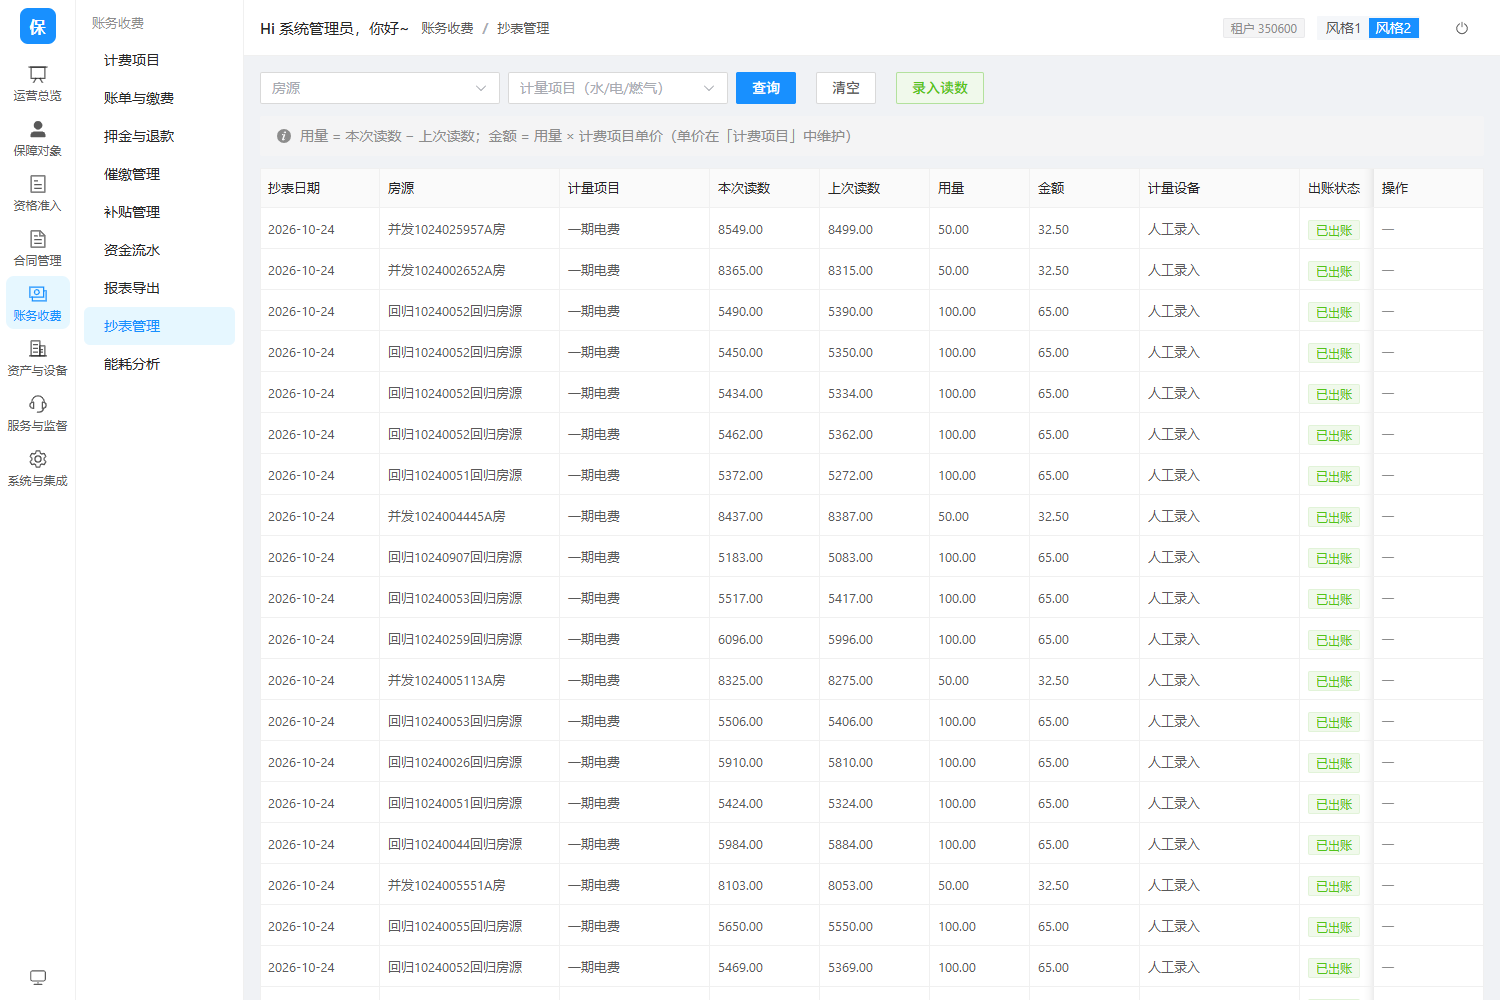
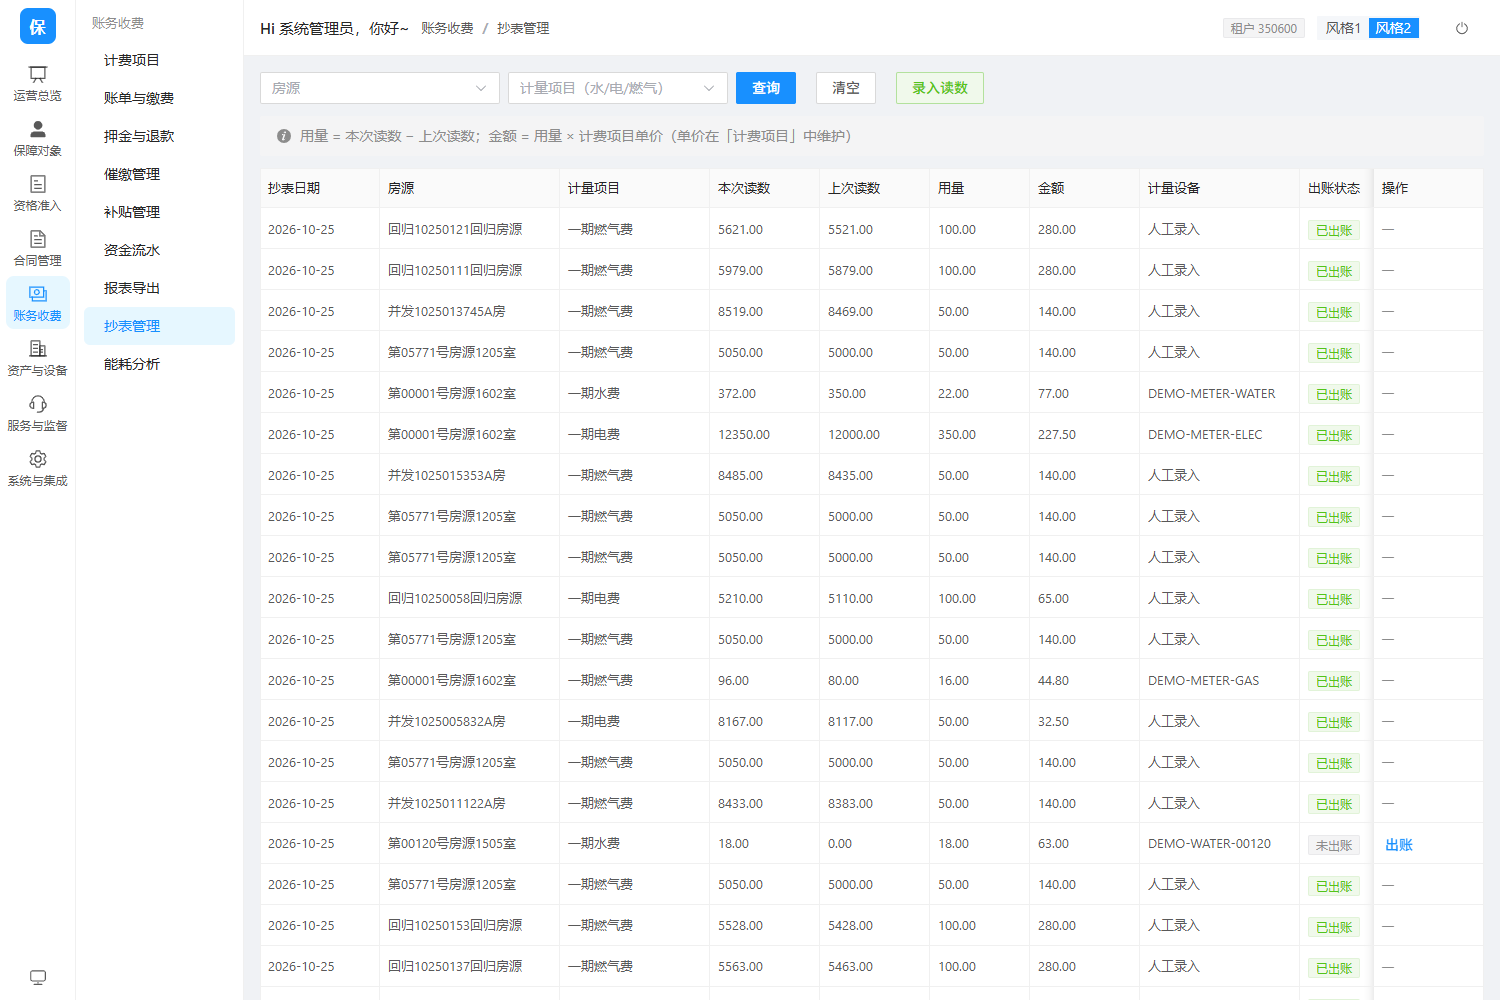
feat(metering): seed utility readings; per-item energy breakdown and fix prev-reading key

diff --git a/_验证/energy_page_check.js b/_验证/energy_page_check.js
@@ -1,0 +1,57 @@
+/**
+ * 抄表管理页检查：打开页面，输出控制台错误与表格行数。
+ */
+const puppeteer = require('puppeteer-core')
+const path = require('path')
+const fs = require('fs')
+
+const EDGE = 'C:\\Program Files (x86)\\Microsoft\\Edge\\Application\\msedge.exe'
+const BASE = 'http://192.168.31.11:8080'
+const shots = path.join(__dirname, '_shots')
+fs.mkdirSync(shots, { recursive: true })
+
+;(async () => {
+  const browser = await puppeteer.launch({ executablePath: EDGE, headless: 'new',
+    args: ['--no-sandbox'] })
+  const page = await browser.newPage()
+  await page.setViewport({ width: 1500, height: 1000 })
+  await page.setCacheEnabled(false)
+  const errors = []
+  page.on('console', (m) => { if (m.type() === 'error') errors.push(m.text().slice(0, 160)) })
+  page.on('response', (r) => {
+    if (r.status() >= 400) errors.push(r.status() + ' ' + r.url().slice(-70))
+  })
+
+  await page.goto(BASE + '/#/login', { waitUntil: 'networkidle2' })
+  await page.evaluate(() => {
+    const el = document.querySelectorAll('input')
+    const set = (i, v) => {
+      el[i].focus(); el[i].value = v
+      el[i].dispatchEvent(new Event('input', { bubbles: true }))
+      el[i].dispatchEvent(new Event('change', { bubbles: true }))
+      el[i].blur()
+    }
+    set(0, '350600'); set(1, 'admin'); set(2, 'admin123')
+  })
+  await new Promise(r => setTimeout(r, 300))
+  await page.evaluate(() => {
+    const b = Array.from(document.querySelectorAll('button'))
+      .find((x) => /登\s*录/.test(x.innerText || ''))
+    b && b.click()
+  })
+  await page.waitForFunction(() => !!document.querySelector('.rail, .el-menu, .aside'),
+    { timeout: 20000 })
+  await page.goto(BASE + '/#/energy', { waitUntil: 'networkidle2' })
+  await new Promise(r => setTimeout(r, 6000))
+
+  const info = await page.evaluate(() => ({
+    rows: document.querySelectorAll('.el-table__body tr').length,
+    empty: (document.querySelector('.el-table__empty-text') || {}).innerText || '',
+    text: document.body.innerText.replace(/\n+/g, ' | ').slice(0, 200)
+  }))
+  await page.screenshot({ path: path.join(shots, 'energy.png') })
+  console.log('行数:', info.rows, ' 空提示:', info.empty)
+  console.log('文本:', info.text)
+  console.log('错误:', errors.slice(0, 4).join(' || ') || '无')
+  await browser.close()
+})()

diff --git a/frontend/src/views/EnergyAnalysis.vue b/frontend/src/views/EnergyAnalysis.vue
@@ -29,6 +29,14 @@
       </el-col>
     </el-row>
 
+    <div style="font-weight:600;margin-bottom:6px">按计量项目（水 / 电 / 燃气）</div>
+    <el-table :data="itemRows" size="small" border style="margin-bottom:14px">
+      <el-table-column prop="feeItemName" label="计量项目" width="190" />
+      <el-table-column prop="readings" label="读数次数" width="110" />
+      <el-table-column prop="usage" label="用量" width="150" />
+      <el-table-column prop="amount" label="金额" width="150" />
+    </el-table>
+
     <el-row :gutter="12">
       <el-col :span="12">
         <div style="font-weight:600;margin-bottom:6px">月度趋势</div>
@@ -70,6 +78,7 @@ const months = ref(6)
 const monthRows = ref([])
 const buildings = ref([])
 const top = ref([])
+const itemRows = ref([])
 
 const totalUsage = computed(() =>
   monthRows.value.reduce((s, m) => s + Number(m.usage || 0), 0).toFixed(2))
@@ -87,6 +96,7 @@ async function load() {
     }))
     buildings.value = (r && r.byBuilding) || []
     top.value = (r && r.topHouses) || []
+    itemRows.value = (r && r.byFeeItem) || []
   } catch (e) {
     ElMessage.error(e?.response?.data?.message || '加载能耗数据失败')
   }

diff --git a/backend/src/main/java/com/yundao/bp/fin/service/impl/MeterReadingServiceImpl.java b/backend/src/main/java/com/yundao/bp/fin/service/impl/MeterReadingServiceImpl.java
@@ -195,23 +195,31 @@ public class MeterReadingServiceImpl implements MeterReadingService {
 
         // 单价（按收费项）
         java.util.Map<Long, java.math.BigDecimal> priceOf = new java.util.HashMap<>();
+        java.util.Map<Long, String> itemName = new java.util.HashMap<>();
         if (anaFeeItemMapper != null) {
             for (com.yundao.bp.fin.entity.FinFeeItem it : anaFeeItemMapper.selectList(
                     new com.baomidou.mybatisplus.core.conditions.query.LambdaQueryWrapper<>())) {
                 priceOf.put(it.getId(), it.getUnitPrice());
+                itemName.put(it.getId(), it.getItemName());
             }
         }
 
-        java.util.Map<Long, com.yundao.bp.fin.entity.FinMeterReading> prev = new java.util.HashMap<>();
+        // 关键：同一房源有多个计量项目（水/电/燃气），必须按「房源+项目」分别计算上期读数
+        java.util.Map<String, com.yundao.bp.fin.entity.FinMeterReading> prev =
+                new java.util.HashMap<>();
         java.util.Map<String, java.math.BigDecimal> monthUsage = new java.util.TreeMap<>();
         java.util.Map<String, java.math.BigDecimal> monthAmount = new java.util.TreeMap<>();
         java.util.Map<String, Integer> monthReadings = new java.util.HashMap<>();
         java.util.Map<Long, java.math.BigDecimal> houseUsage = new java.util.HashMap<>();
+        java.util.Map<Long, java.math.BigDecimal> itemUsage = new java.util.HashMap<>();
+        java.util.Map<Long, java.math.BigDecimal> itemAmount = new java.util.HashMap<>();
+        java.util.Map<Long, Integer> itemReadings = new java.util.HashMap<>();
 
         for (com.yundao.bp.fin.entity.FinMeterReading r : list) {
             String month = r.getReadDate() == null ? "" : r.getReadDate().toString().substring(0, 7);
             monthReadings.merge(month, 1, Integer::sum);
-            com.yundao.bp.fin.entity.FinMeterReading last = prev.get(r.getHouseId());
+            String key = r.getHouseId() + "#" + r.getFeeItemId();
+            com.yundao.bp.fin.entity.FinMeterReading last = prev.get(key);
             if (last != null && last.getReading() != null && r.getReading() != null) {
                 java.math.BigDecimal used = r.getReading().subtract(last.getReading());
                 if (used.signum() > 0) {
@@ -222,9 +230,15 @@ public class MeterReadingServiceImpl implements MeterReadingService {
                                 java.math.BigDecimal::add);
                     }
                     houseUsage.merge(r.getHouseId(), used, java.math.BigDecimal::add);
+                    itemUsage.merge(r.getFeeItemId(), used, java.math.BigDecimal::add);
+                    if (price != null) {
+                        itemAmount.merge(r.getFeeItemId(), used.multiply(price),
+                                java.math.BigDecimal::add);
+                    }
+                    itemReadings.merge(r.getFeeItemId(), 1, Integer::sum);
                 }
             }
-            prev.put(r.getHouseId(), r);
+            prev.put(key, r);
         }
 
         java.util.List<java.util.Map<String, Object>> monthRows = new java.util.ArrayList<>();
@@ -285,6 +299,20 @@ public class MeterReadingServiceImpl implements MeterReadingService {
         out.put("months", monthRows);
         out.put("topHouses", topHouses);
         out.put("byBuilding", buildingRows);
+        java.util.List<java.util.Map<String, Object>> itemRows = new java.util.ArrayList<>();
+        for (java.util.Map.Entry<Long, java.math.BigDecimal> e : itemUsage.entrySet()) {
+            java.util.Map<String, Object> m = new java.util.LinkedHashMap<>();
+            m.put("feeItemId", String.valueOf(e.getKey()));
+            m.put("feeItemName", itemName.get(e.getKey()));
+            m.put("usage", e.getValue().setScale(2, java.math.RoundingMode.HALF_UP));
+            m.put("amount", itemAmount.getOrDefault(e.getKey(),
+                    java.math.BigDecimal.ZERO).setScale(2, java.math.RoundingMode.HALF_UP));
+            m.put("readings", itemReadings.getOrDefault(e.getKey(), 0));
+            itemRows.add(m);
+        }
+        itemRows.sort((a, b) -> ((java.math.BigDecimal) b.get("usage"))
+                .compareTo((java.math.BigDecimal) a.get("usage")));
+        out.put("byFeeItem", itemRows);
         out.put("windowMonths", window);
         return out;
     }

diff --git a/_验证/_seed_meter_readings.py b/_验证/_seed_meter_readings.py
@@ -1,0 +1,103 @@
+# -*- coding: utf-8 -*-
+"""为多套房源补水电燃气读数，让抄表管理与能耗分析有多项目数据。
+
+口径：同一房源同一项目，本期读数 = 上期读数 + 用量。
+"""
+import random
+import time
+
+import pymysql
+
+DB = dict(host='192.168.31.153', port=33306, user='root',
+          password='5677@Mysql', database='bp_platform', charset='utf8mb4')
+conn = pymysql.connect(**DB)
+cur = conn.cursor()
+
+# 计费项
+cur.execute("""select id, item_code, item_name, unit_price from bp_fin_fee_item
+               where calc_mode='METER'""")
+items = {r[1]: r for r in cur.fetchall()}
+print('计量项:', [(r[1], r[2], str(r[3])) for r in items.values()])
+
+ELEC = items.get('ELEC-P1')
+WATER = items.get('WATER-P1')
+GAS = items.get('GAS-P1')
+if not (ELEC and WATER and GAS):
+    print('缺计量项，先跑 _seed_utility_demo.py')
+    raise SystemExit(1)
+
+# 选有计量设备的房源（我们种的电表/水表所在房源）
+cur.execute("""select h.id, h.house_code, min(m.device_id) as dev
+               from bp_asset_house h
+               join bp_dev_device m on m.space_id = h.space_id and m.device_type='ELEC_METER'
+               where m.device_id like 'DEMO-ELEC-%'
+               group by h.id, h.house_code limit 120""")
+houses = cur.fetchall()
+print('目标房源:', len(houses))
+
+TODAY = time.strftime('%Y-%m-%d')
+PREV = time.strftime('%Y-%m-%d', time.localtime(time.time() - 30 * 86400))
+
+seq = int(time.time() * 1000) % 10 ** 8
+
+
+def next_id():
+    global seq
+    seq += 1
+    return 700000000000000000 + seq
+
+
+def add(house_id, item, reading, day, device_id):
+    cur.execute('''select count(*) from bp_fin_meter_reading
+                   where house_id=%s and fee_item_id=%s and read_date=%s''',
+                (house_id, item[0], day))
+    if cur.fetchone()[0]:
+        return False
+    cur.execute('''insert into bp_fin_meter_reading
+        (id, tenant_id, house_id, fee_item_id, reading, read_date, device_id,
+         create_time, create_by)
+        values (%s,'350600',%s,%s,%s,%s,%s,%s,'seed')''',
+                (next_id(), house_id, item[0], reading, day, device_id, TODAY))
+    return True
+
+
+made = {'elec': 0, 'water': 0, 'gas': 0}
+for hi, (house_id, house_code, elec_dev) in enumerate(houses):
+    # 电：基线与本期
+    e0 = 0
+    e1 = e0 + random.randint(80, 260)
+    if add(house_id, ELEC, e0, PREV, elec_dev):
+        made['elec'] += 1
+    if add(house_id, ELEC, e1, TODAY, elec_dev):
+        made['elec'] += 1
+
+    # 水
+    w_dev = elec_dev.replace('ELEC', 'WATER')
+    w0 = 0
+    w1 = w0 + random.randint(8, 22)
+    if add(house_id, WATER, w0, PREV, w_dev):
+        made['water'] += 1
+    if add(house_id, WATER, w1, TODAY, w_dev):
+        made['water'] += 1
+
+    # 燃气（每 3 套 1 个）
+    if hi % 3 == 0:
+        g_dev = elec_dev.replace('ELEC', 'GAS')
+        g0 = 0
+        g1 = g0 + random.randint(4, 14)
+        if add(house_id, GAS, g0, PREV, g_dev):
+            made['gas'] += 1
+        if add(house_id, GAS, g1, TODAY, g_dev):
+            made['gas'] += 1
+
+conn.commit()
+
+print('\n新增读数：', made)
+cur.execute('''select f.item_name, count(*), round(sum(m.amount),2)
+               from bp_fin_meter_reading m join bp_fin_fee_item f on f.id=m.fee_item_id
+               group by f.item_name order by 2 desc''')
+print('\n读数与金额汇总：')
+for name, cnt, amt in cur.fetchall():
+    print('  %-10s %4d 条  金额 %s' % (name, cnt, amt))
+
+conn.close()
